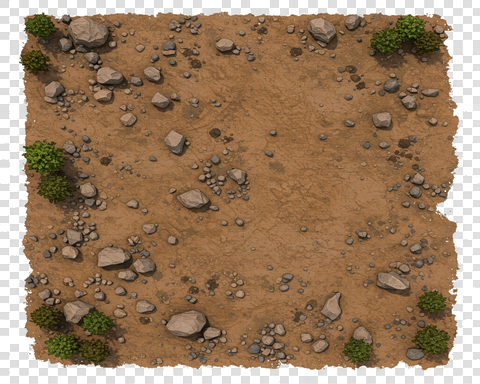
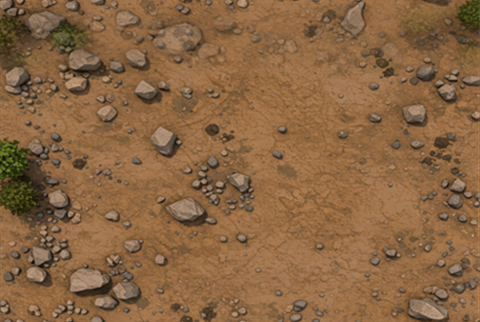
fix(background): tuile de sol seamless pour la carriere Clerac
Les fonds clay_quarry_far/near.png etaient des vignettes encadrees (bordure
rocheuse / bords dechires) passees dans un tileSprite -> les bordures se
repetaient en bandes qui defilaient (rendu "mal ajuste").

- Regenere clay_quarry_near.png (couche visible opaque) en tuile de sol
  raccordable verticalement : crop interieur + composite terre + resize 480 +
  feather-wrap (raccord haut<->bas par fondu, System.Drawing). 480x322, couture
  24.5 vs 19.8 variation interne = imperceptible.
- Aucun changement de game.js (charge deja assets/<biome>_near.png).
- far aerien desormais masque (near opaque) ; conserve pour usage futur.
- Docs : ASSET_MANIFEST.md + DECISIONS.md 2026-07-06 (background).

diff --git a/docs/DECISIONS.md b/docs/DECISIONS.md
@@ -5,6 +5,40 @@
 
 ---
 
+## 2026-07-06 (background) — Fond carrière : tuile seamless au lieu d'une vignette tilée
+
+**Contexte** : Au run, le background défilait mal (coutures, cadrage bancal) alors que la
+photo était bonne (« sol de carrière »). Inspection : `clay_quarry_far.png` (480×256) et
+`clay_quarry_near.png` (480×384) sont des **vignettes encadrées** (scène complète avec
+bordure rocheuse / bords déchirés transparents), mais `game.js` les passe dans un
+`tileSprite` qui **répète** la texture pour le scroll infini → les bordures se répètent en
+bandes qui défilent. Inadéquation asset ↔ technique de rendu, pas un bug d'agent (aucun
+agent ne touche `game.js` ni les assets — rappel règle #5 : le pipeline ne produit que
+`level_config.json`).
+
+**Décision** : Régénérer la **couche visible** (`_near`, opaque, dessinée au-dessus du
+`_far`) en une vraie **tuile de sol raccordable verticalement** :
+crop de l'intérieur opaque (boîte 417×346, marge de sécurité) → composite sur teinte terre
+→ resize largeur 480 → **feather-wrap** vertical (fondu haut↔bas, f=76) via System.Drawing
+en PowerShell. Résultat 480×322, opaque, couture mesurée à 24.5 delta RGB vs 19.8 de
+variation interne (≈ imperceptible). Fichier écrit sur `clay_quarry_near.png` →
+**aucune modification de `game.js`** (il charge déjà `assets/<biome>_near.png`). Le `_far`
+aérien devient totalement masqué (near opaque) : conservé mais non tilé.
+
+**Alternative rejetée** :
+- **Recadrage à la volée dans `game.js`** (frame interne du `tileSprite`) → rejeté :
+  couture centrale subsistante (image pas vraiment raccordable) et logique de rendu
+  alourdie ; corriger l'asset une fois est plus propre et testable.
+- **Mirror-tile** (empiler crop + miroir vertical) → rejeté : raccord parfait garanti mais
+  symétrie mécanique visible sur les cailloux. Le feather-wrap donne un rendu organique.
+- **Backdrop statique** (far aérien étiré, plein écran) → rejeté : perd la sensation de
+  vitesse d'un endless runner (le sol ne défile plus).
+
+**Impact attendu** : sol de carrière qui défile proprement, sans bande ni bord déchiré.
+Reproductible pour les autres biomes : même recette de génération de tuile à appliquer.
+
+---
+
 ## 2026-07-06 — Sprint 4 : fix Reviewer 400 « Duplicate function declaration » + garde-fou
 
 **Contexte** : Au lancement du playground, le pipeline démarre (researcher + coder OK)

diff --git a/docs/ASSET_MANIFEST.md b/docs/ASSET_MANIFEST.md
@@ -168,8 +168,14 @@ Chemin racine : `public/assets/kenney/`
 > (et non `public/assets/generated/`) car `game.js` les charge à `assets/<biome>_far.png`
 > / `assets/<biome>_near.png`. Ne pas déplacer sans modifier `game.js`.
 
-- `assets/clay_quarry_far.png` — fond lointain carrière de kaolin Clérac (généré)
-- `assets/clay_quarry_near.png` — fond proche carrière de kaolin Clérac (généré)
+- `assets/clay_quarry_far.png` — fond lointain carrière de kaolin Clérac (généré). Vue
+  aérienne encadrée : actuellement **masquée** derrière `_near` (opaque), conservée pour
+  usage futur. NE PAS tiler telle quelle (bordures → coutures).
+- `assets/clay_quarry_near.png` — **tuile de sol raccordable verticalement** (480×322,
+  opaque, seamless) dérivée de la photo générée d'origine par crop intérieur + raccord
+  par fondu (feather-wrap, System.Drawing). C'est la couche VISIBLE qui défile dans
+  `game.js` (`tileSprite`). L'original encadré (bords déchirés) reste dans l'historique
+  git. Voir `docs/DECISIONS.md § 2026-07-06 (background)`.
 
 ---
 